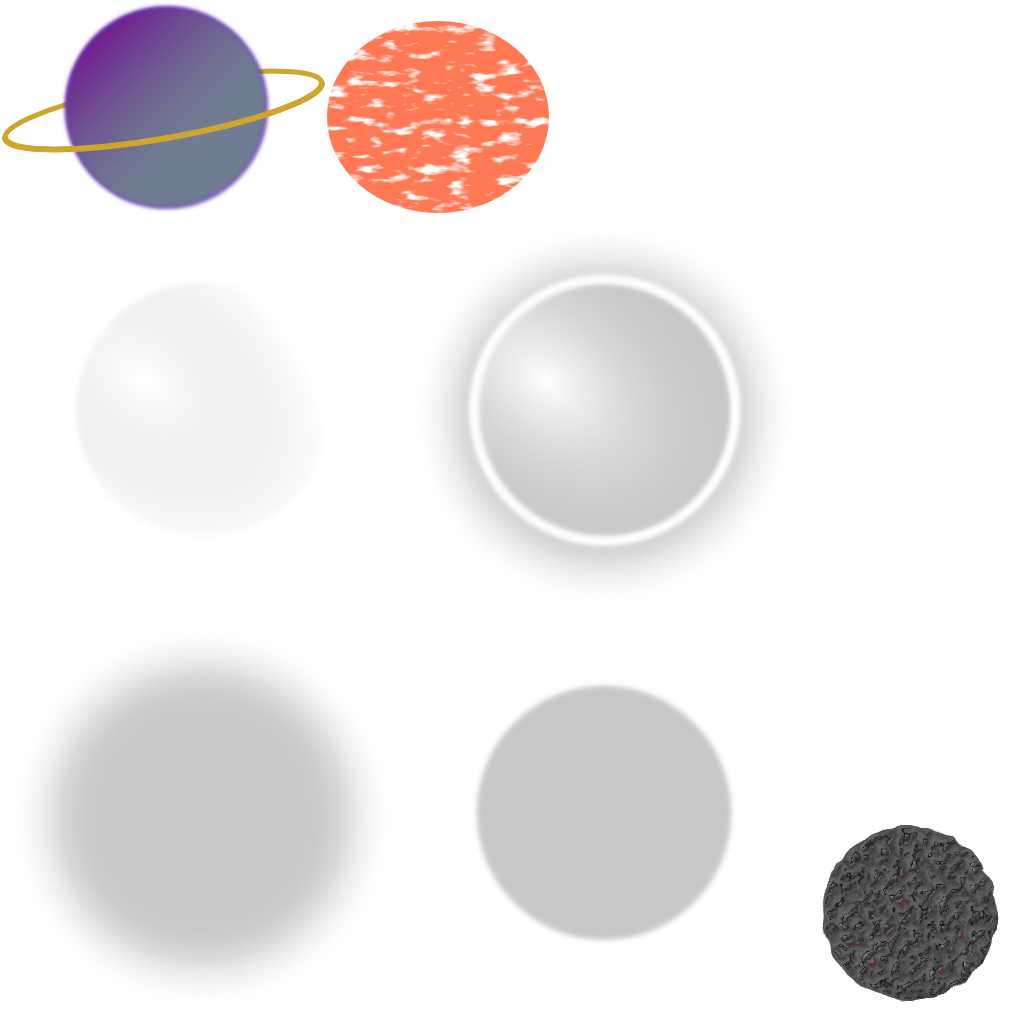
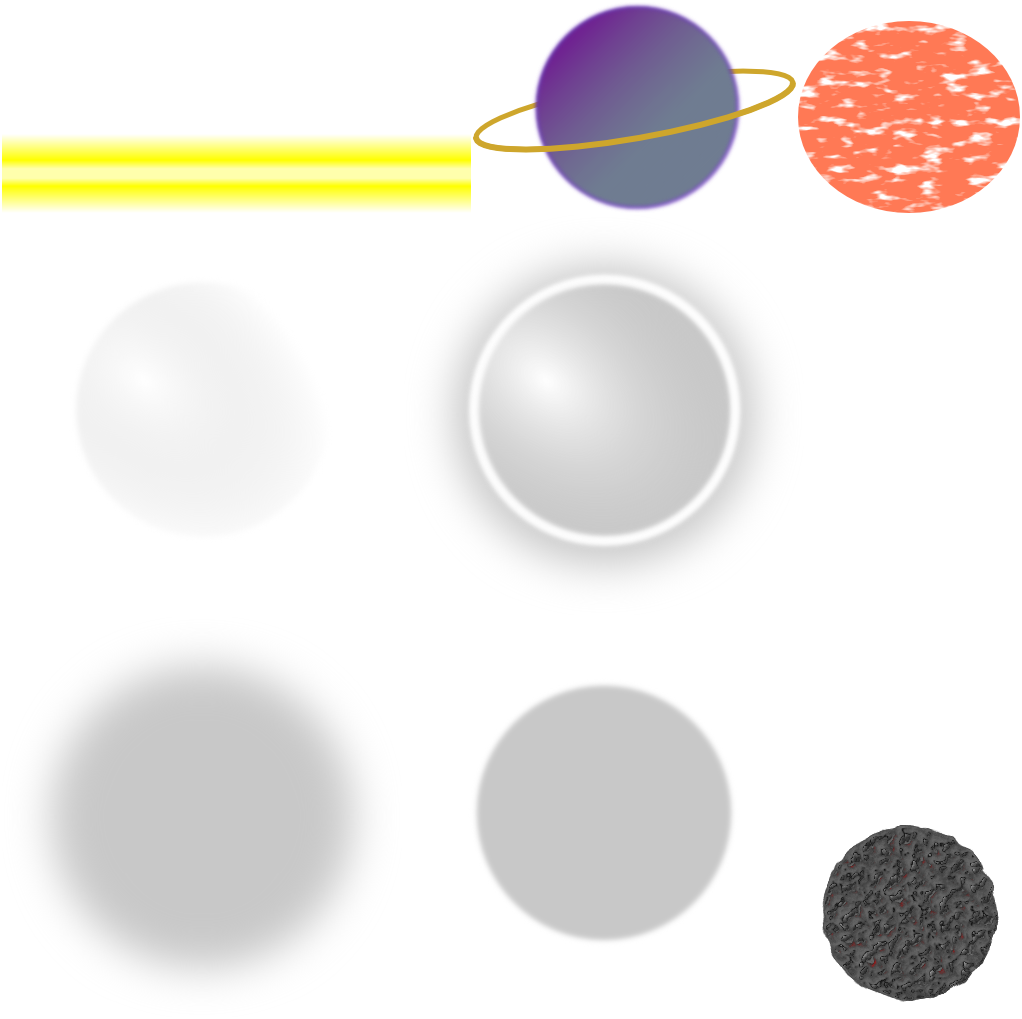
#153 Add harvest animation to the moons

diff --git a/GalCon-Client/GalCon-Client/src/com/xxx/galcon/screen/BoardScreen.java b/GalCon-Client/GalCon-Client/src/com/xxx/galcon/screen/BoardScreen.java
@@ -3,7 +3,6 @@ package com.xxx.galcon.screen;
 import static com.badlogic.gdx.scenes.scene2d.actions.Actions.alpha;
 import static com.badlogic.gdx.scenes.scene2d.actions.Actions.color;
 import static com.badlogic.gdx.scenes.scene2d.actions.Actions.delay;
-import static com.badlogic.gdx.scenes.scene2d.actions.Actions.forever;
 import static com.badlogic.gdx.scenes.scene2d.actions.Actions.moveBy;
 import static com.badlogic.gdx.scenes.scene2d.actions.Actions.moveTo;
 import static com.badlogic.gdx.scenes.scene2d.actions.Actions.rotateBy;
@@ -28,6 +27,7 @@ import com.badlogic.gdx.graphics.PerspectiveCamera;
 import com.badlogic.gdx.graphics.g2d.TextureAtlas.AtlasRegion;
 import com.badlogic.gdx.graphics.g2d.TextureRegion;
 import com.badlogic.gdx.math.Interpolation;
+import com.badlogic.gdx.math.MathUtils;
 import com.badlogic.gdx.math.Vector3;
 import com.badlogic.gdx.scenes.scene2d.Actor;
 import com.badlogic.gdx.scenes.scene2d.Event;
@@ -36,7 +36,6 @@ import com.badlogic.gdx.scenes.scene2d.Group;
 import com.badlogic.gdx.scenes.scene2d.InputEvent;
 import com.badlogic.gdx.scenes.scene2d.Stage;
 import com.badlogic.gdx.scenes.scene2d.Touchable;
-import com.badlogic.gdx.scenes.scene2d.actions.Actions;
 import com.badlogic.gdx.scenes.scene2d.ui.Image;
 import com.badlogic.gdx.scenes.scene2d.utils.ClickListener;
 import com.badlogic.gdx.scenes.scene2d.utils.TextureRegionDrawable;
@@ -175,7 +174,7 @@ public class BoardScreen implements ScreenFeedback {
 		private void updatePlanetCalcs() {
 			float largest = Math.max(tileSize.width, tileSize.height);
 			maxPlanetRadius = largest;
-			minPlanetRadius = (int) (largest * 0.5f);
+			minPlanetRadius = (int) (largest * 0.6f);
 		}
 
 		/**
@@ -253,7 +252,6 @@ public class BoardScreen implements ScreenFeedback {
 		createPlanets();
 		createPlanetIcons();
 		createMoves();
-		createHarvest();
 
 		Gdx.input.setInputProcessor(stage);
 
@@ -278,20 +276,6 @@ public class BoardScreen implements ScreenFeedback {
 			});
 			stage.addActor(overlay);
 		}
-	}
-
-	private void createHarvest() {
-		for (Moon moon : moons) {
-			if (moon.associatedPlanet.isUnderHarvest() && moon.getActions().size == 0) {
-				addActionToMoon(moon);
-			}
-		}
-	}
-
-	private void addActionToMoon(Moon moon) {
-		float duration = 1.5f;
-		moon.addAction(Actions.forever(Actions.sequence(Actions.color(new Color(0, 0, 0, 1), duration),
-				Actions.color(new Color(0.9f, 0, 0, 1), duration))));
 	}
 
 	private void createPlayerHud() {
@@ -430,8 +414,8 @@ public class BoardScreen implements ScreenFeedback {
 		for (float currentAngle = 0; currentAngle < circleInRadians; currentAngle += radiansBetweenParticles) {
 			Image particle = new Image(resources.skin, Constants.UI.EXPLOSION_PARTICLE);
 
-			float yStartOffset = (float) Math.sin(currentAngle) * startRadius;
-			float xStartOffset = (float) Math.cos(currentAngle) * startRadius;
+			float yStartOffset = (float) MathUtils.sin(currentAngle) * startRadius;
+			float xStartOffset = (float) MathUtils.cos(currentAngle) * startRadius;
 
 			particle.setColor(Color.CLEAR);
 			particle.setOrigin(particleSize * 0.5f, particleSize * 0.5f);
@@ -631,17 +615,16 @@ public class BoardScreen implements ScreenFeedback {
 			planetButtons.put(planet.name, planetButton);
 
 			if (planet.hasAbility()) {
-				createMoon(planet);
+				createMoon(planetButton);
 			}
 		}
 	}
 
-	private void createMoon(Planet planet) {
-		final Moon moon = PlanetButtonFactory.createMoon(resources, planet, boardCalcs);
+	private void createMoon(PlanetButton planetButton) {
+		final Moon moon = PlanetButtonFactory.createMoon(resources, planetButton, boardCalcs);
 
-		PlanetButton associatedAbilityPlanet = planetButtons.get(planet.name);
-		float relativeX = associatedAbilityPlanet.centerPoint().x - (moon.getWidth() / 2);
-		float relativeY = associatedAbilityPlanet.centerPoint().y - (moon.getHeight() / 2);
+		float relativeX = planetButton.centerPoint().x - (moon.getWidth() / 2);
+		float relativeY = planetButton.centerPoint().y - (moon.getHeight() / 2);
 
 		moon.setX(relativeX - boardCalcs.getTileSize().width / 2);
 		moon.setY(relativeY);
@@ -783,14 +766,13 @@ public class BoardScreen implements ScreenFeedback {
 		for (Moon moon : moons) {
 			Point newPosition = findMoonPosition(moon);
 			if (newPosition != null) {
-				moon.setX(newPosition.x - (moon.getWidth() / 2));
-				moon.setY(newPosition.y - (moon.getHeight() / 2));
+				moon.updateLocation(boardTable, boardCalcs, newPosition);
 			}
 		}
 	}
 
 	private Point findMoonPosition(Moon moon) {
-		PlanetButton associatedPlanet = planetButtons.get(moon.associatedPlanet.name);
+		PlanetButton associatedPlanet = planetButtons.get(moon.associatedPlanetButton.planet.name);
 		Point movePoint = null;
 		if (associatedPlanet != null && gameBoard != null) {
 			if (moon.angle == 360) {
@@ -798,7 +780,7 @@ public class BoardScreen implements ScreenFeedback {
 			}
 
 			movePoint = GalConMath.nextPointInEllipse(associatedPlanet.centerPoint(),
-					boardCalcs.getTileSize().width * 0.6f, boardCalcs.getTileSize().height / 2, moon.angle);
+					boardCalcs.getTileSize().width * 0.7f, boardCalcs.getTileSize().height * 0.46f, moon.angle);
 			moon.angle = (float) (moon.angle + moon.rateOfOrbit);
 		}
 

diff --git a/GalCon-Client/GalCon-Client/src/com/xxx/galcon/screen/widget/Moon.java b/GalCon-Client/GalCon-Client/src/com/xxx/galcon/screen/widget/Moon.java
@@ -1,23 +1,37 @@
 package com.xxx.galcon.screen.widget;
 
+import static com.badlogic.gdx.scenes.scene2d.actions.Actions.color;
+import static com.badlogic.gdx.scenes.scene2d.actions.Actions.forever;
+import static com.badlogic.gdx.scenes.scene2d.actions.Actions.sequence;
+
+import com.badlogic.gdx.graphics.Color;
+import com.badlogic.gdx.math.MathUtils;
+import com.badlogic.gdx.scenes.scene2d.Action;
+import com.badlogic.gdx.scenes.scene2d.Group;
 import com.badlogic.gdx.scenes.scene2d.ui.Image;
 import com.badlogic.gdx.scenes.scene2d.utils.TextureRegionDrawable;
 import com.xxx.galcon.Constants;
-import com.xxx.galcon.model.Planet;
+import com.xxx.galcon.model.Point;
+import com.xxx.galcon.screen.BoardScreen.BoardCalculations;
 import com.xxx.galcon.screen.Resources;
 
-public class Moon extends Image {
+public class Moon extends Group {
 
 	public float angle = 0;
 	public double rateOfOrbit = 0;
-	public Planet associatedPlanet;
+	public PlanetButton associatedPlanetButton;
+	private Image harvestBeamImage;
+	private Image moonHarvest;
+	private Image moonHighlight;
+	private Resources resources;
 
-	public Moon(Resources resources, Planet associatedPlanet, float height, float width) {
+	public Moon(Resources resources, PlanetButton associatedPlanetButton, float height, float width) {
+		this.resources = resources;
 		TextureRegionDrawable moon;
-		if (associatedPlanet.ability.equals(Constants.ABILITY_ATTACK_INCREASE)) {
+		if (associatedPlanetButton.planet.ability.equals(Constants.ABILITY_ATTACK_INCREASE)) {
 			moon = new TextureRegionDrawable(resources.planetAtlas.findRegion("moon"));
 
-		} else if (associatedPlanet.ability.equals(Constants.ABILITY_DEFENCE_INCREASE)) {
+		} else if (associatedPlanetButton.planet.ability.equals(Constants.ABILITY_DEFENCE_INCREASE)) {
 			moon = new TextureRegionDrawable(resources.planetAtlas.findRegion("moon"));
 
 		} else {
@@ -25,23 +39,65 @@ public class Moon extends Image {
 		}
 		moon.setMinHeight(height);
 		moon.setMinWidth(width);
-		setDrawable(moon);
-		this.associatedPlanet = associatedPlanet;
+		addActor(new Image(moon));
+		this.associatedPlanetButton = associatedPlanetButton;
 		setupMovementSpeedAndDirection();
 
+		setWidth(width);
+		setHeight(height);
 	}
 
 	private void setupMovementSpeedAndDirection() {
-
 		rateOfOrbit = Math.random();
 		if (rateOfOrbit < 0.4) {
 			rateOfOrbit = 0.5;
 		}
 
-		if (associatedPlanet.shipRegenRate <= 3) {
+		if (associatedPlanetButton.planet.shipRegenRate <= 3) {
 			angle = 360;
 			rateOfOrbit = rateOfOrbit * -1;
 		}
 	}
 
+	public void updateLocation(Group boardTable, BoardCalculations boardCalcs, Point point) {
+		setX(point.x - getWidth() * 0.5f);
+		setY(point.y - getHeight() * 0.5f);
+
+		if (associatedPlanetButton.planet.isUnderHarvest()) {
+			Point start = associatedPlanetButton.centerPoint();
+			float width = (float) Math.sqrt(Math.pow(point.x - start.x, 2) + Math.pow(point.y - start.y, 2));
+
+			if (harvestBeamImage == null) {
+				Action action = forever(sequence(color(Color.WHITE, 0.5f), color(Color.RED, 0.5f)));
+				harvestBeamImage = new Image(new TextureRegionDrawable(
+						resources.planetAtlas.findRegion("moon-harvest-beam")));
+				float height = boardCalcs.getTileSize().height * 0.17f;
+
+				harvestBeamImage.setBounds(start.x, start.y - height * 0.5f, width, height);
+				harvestBeamImage.setOrigin(0, 0 + height * 0.5f);
+				boardTable.addActorAt(1, harvestBeamImage);
+
+				harvestBeamImage.addAction(action);
+			}
+			if (moonHarvest == null) {
+				moonHarvest = new Image(new TextureRegionDrawable(resources.planetAtlas.findRegion("moon-harvest-1")));
+				moonHarvest.setBounds(0, 0, getWidth(), getHeight());
+				// addActor(moonHarvest);
+			}
+			if (moonHighlight == null) {
+				Action action = forever(sequence(color(Color.YELLOW, 0.5f), color(Color.RED, 0.5f)));
+				moonHighlight = new Image(new TextureRegionDrawable(resources.planetAtlas.findRegion("planet-glow")));
+				moonHighlight.setBounds(0, 0, getWidth(), getHeight());
+				moonHighlight.setColor(Color.YELLOW);
+				addActorAt(0, moonHighlight);
+
+				moonHighlight.addAction(action);
+			}
+
+			harvestBeamImage.setWidth(Math.abs(width));
+
+			float trueAngle = MathUtils.atan2(point.y - start.y, point.x - start.x);
+			harvestBeamImage.setRotation(MathUtils.radiansToDegrees * trueAngle);
+		}
+	}
 }

diff --git a/GalCon-Client/GalCon-Client/src/com/xxx/galcon/math/GalConMath.java b/GalCon-Client/GalCon-Client/src/com/xxx/galcon/math/GalConMath.java
@@ -3,6 +3,7 @@ package com.xxx.galcon.math;
 import static java.lang.Math.pow;
 import static java.lang.Math.sqrt;
 
+import com.badlogic.gdx.math.MathUtils;
 import com.xxx.galcon.model.Point;
 
 public class GalConMath {
@@ -10,22 +11,15 @@ public class GalConMath {
 	public static float distance(float startX, float startY, float endX, float endY) {
 		return (float) sqrt(pow(startX - endX, 2.0) + pow(startY - endY, 2.0));
 	}
-	
+
 	public static float distance(Point startingPoint, Point endingPoint) {
 		return distance(startingPoint.x, startingPoint.y, endingPoint.x, endingPoint.y);
 	}
-	
-	public static Point nextPointInEllipse(Point center, float xRadius, float yRadius, float currentAngle){
-		 double radian = degreeToRadian(currentAngle);
-		 
-		 float x = (float) (center.x + xRadius * Math.cos(radian));
-		 float y = (float) (center.y + yRadius * Math.sin(radian));
-		 
-		 return new Point(x, y);
+
+	public static Point nextPointInEllipse(Point center, float xRadius, float yRadius, float currentAngle) {
+		float x = (float) (center.x + xRadius * MathUtils.cosDeg(currentAngle));
+		float y = (float) (center.y + yRadius * MathUtils.sinDeg(currentAngle));
+
+		return new Point(x, y);
 	}
-	
-	private static double degreeToRadian(float degree){
-		return degree * (Math.PI / 180);
-	}
-	
 }

diff --git a/GalCon-Client/GalCon-Client/src/com/xxx/galcon/model/factory/PlanetButtonFactory.java b/GalCon-Client/GalCon-Client/src/com/xxx/galcon/model/factory/PlanetButtonFactory.java
@@ -33,12 +33,10 @@ public class PlanetButtonFactory {
 		return button;
 	}
 
-	public static Moon createMoon(Resources resources, Planet planet, BoardCalculations boardCalcs) {
+	public static Moon createMoon(Resources resources, PlanetButton planetButton, BoardCalculations boardCalcs) {
 		float width = boardCalcs.getTileSize().width * 0.4f;
 		float height = boardCalcs.getTileSize().height * 0.4f;
-		final Moon moon = new Moon(resources, planet, height, width);
-		moon.setHeight(height);
-		moon.setWidth(width);
+		final Moon moon = new Moon(resources, planetButton, height, width);
 
 		return moon;
 	}
